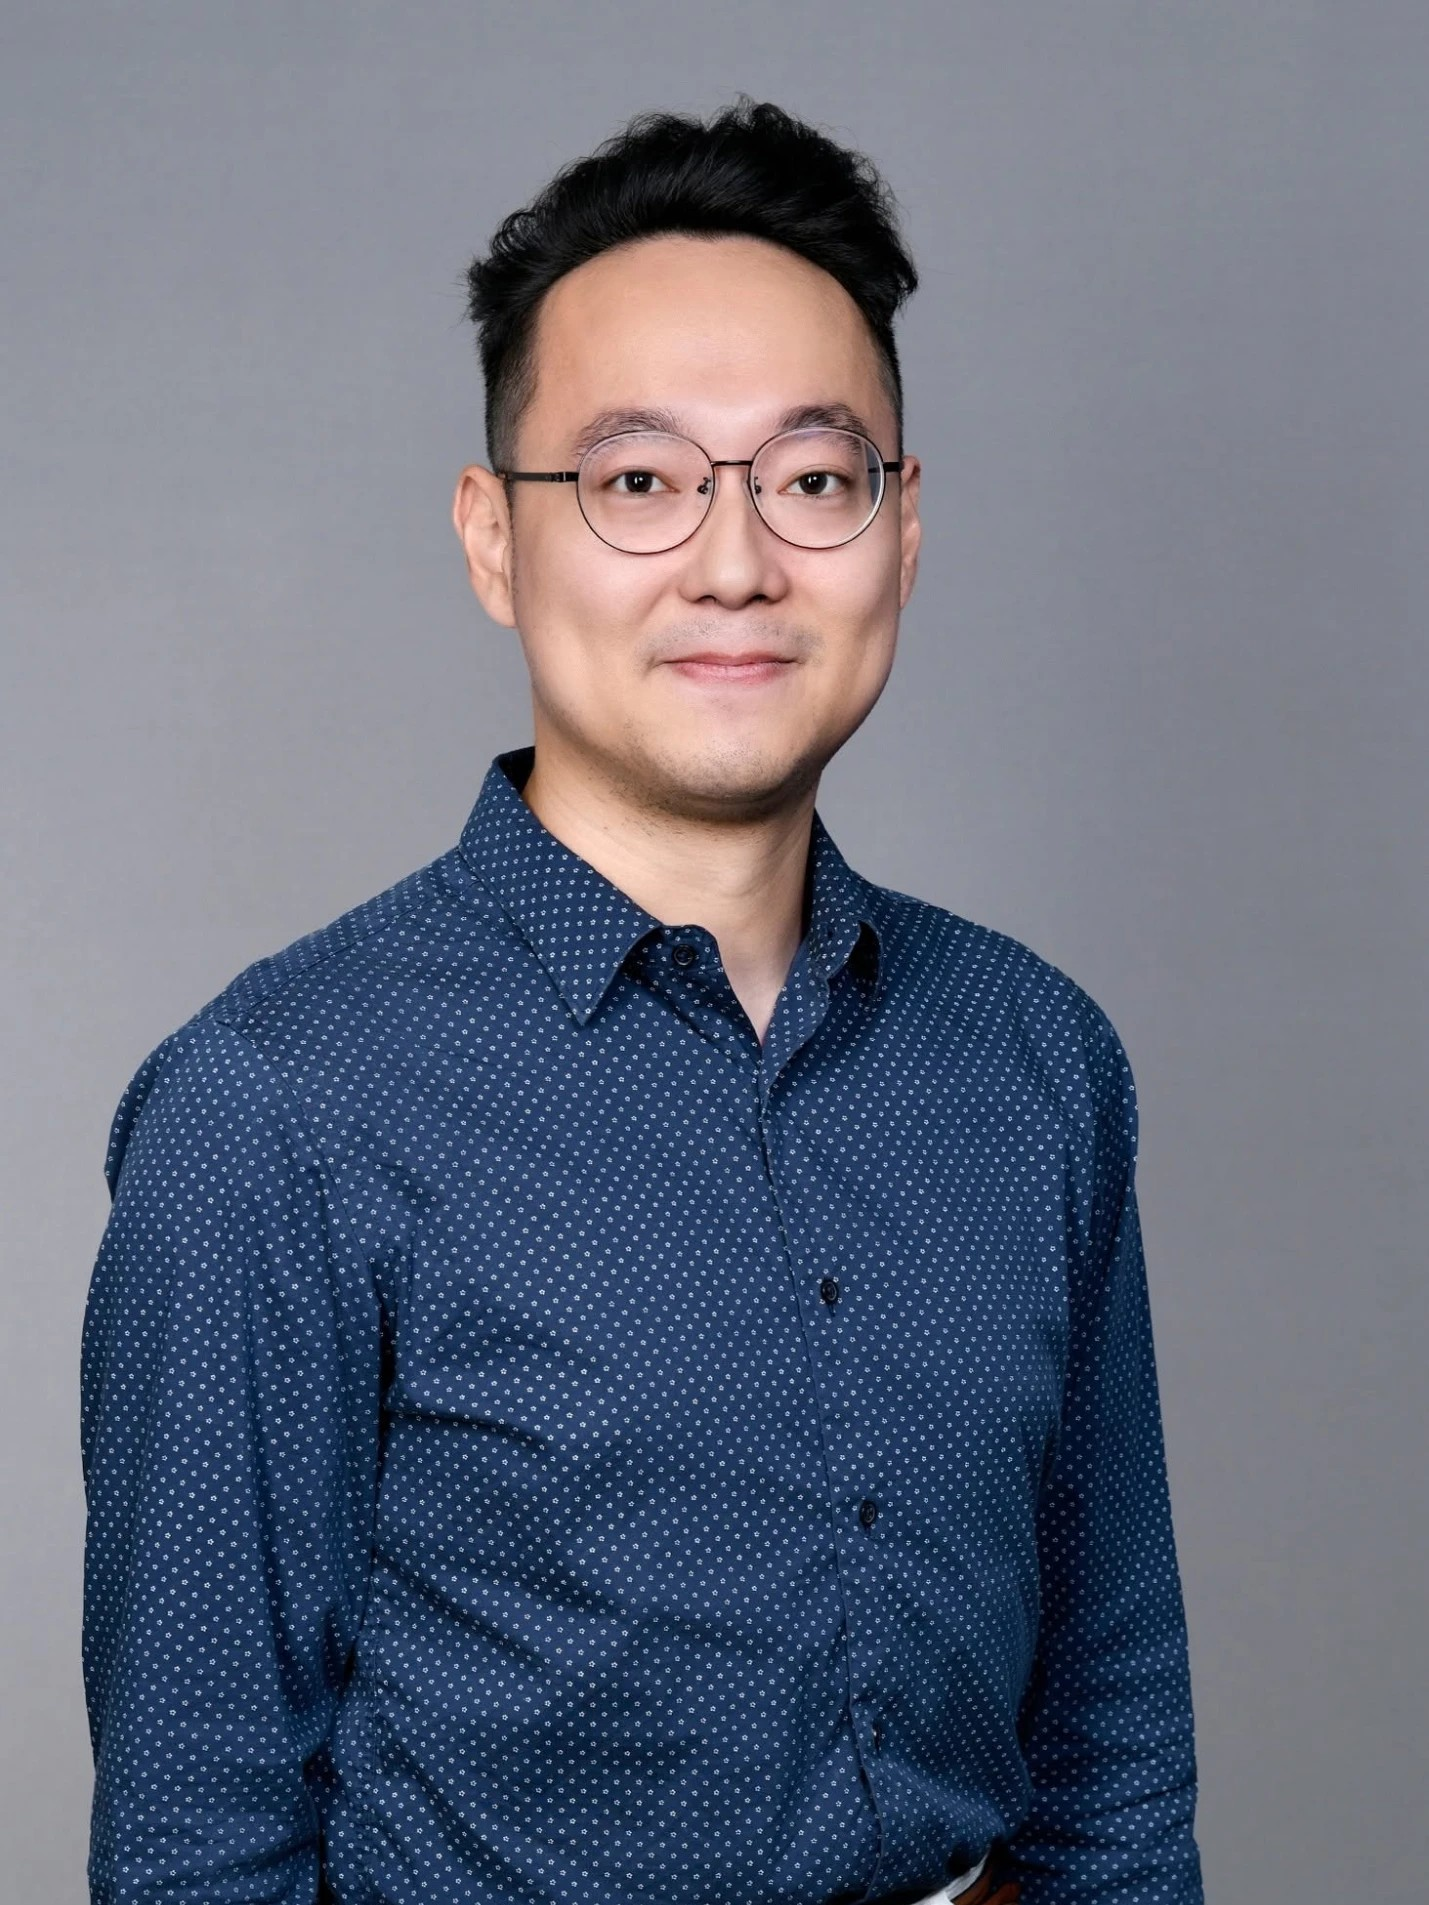
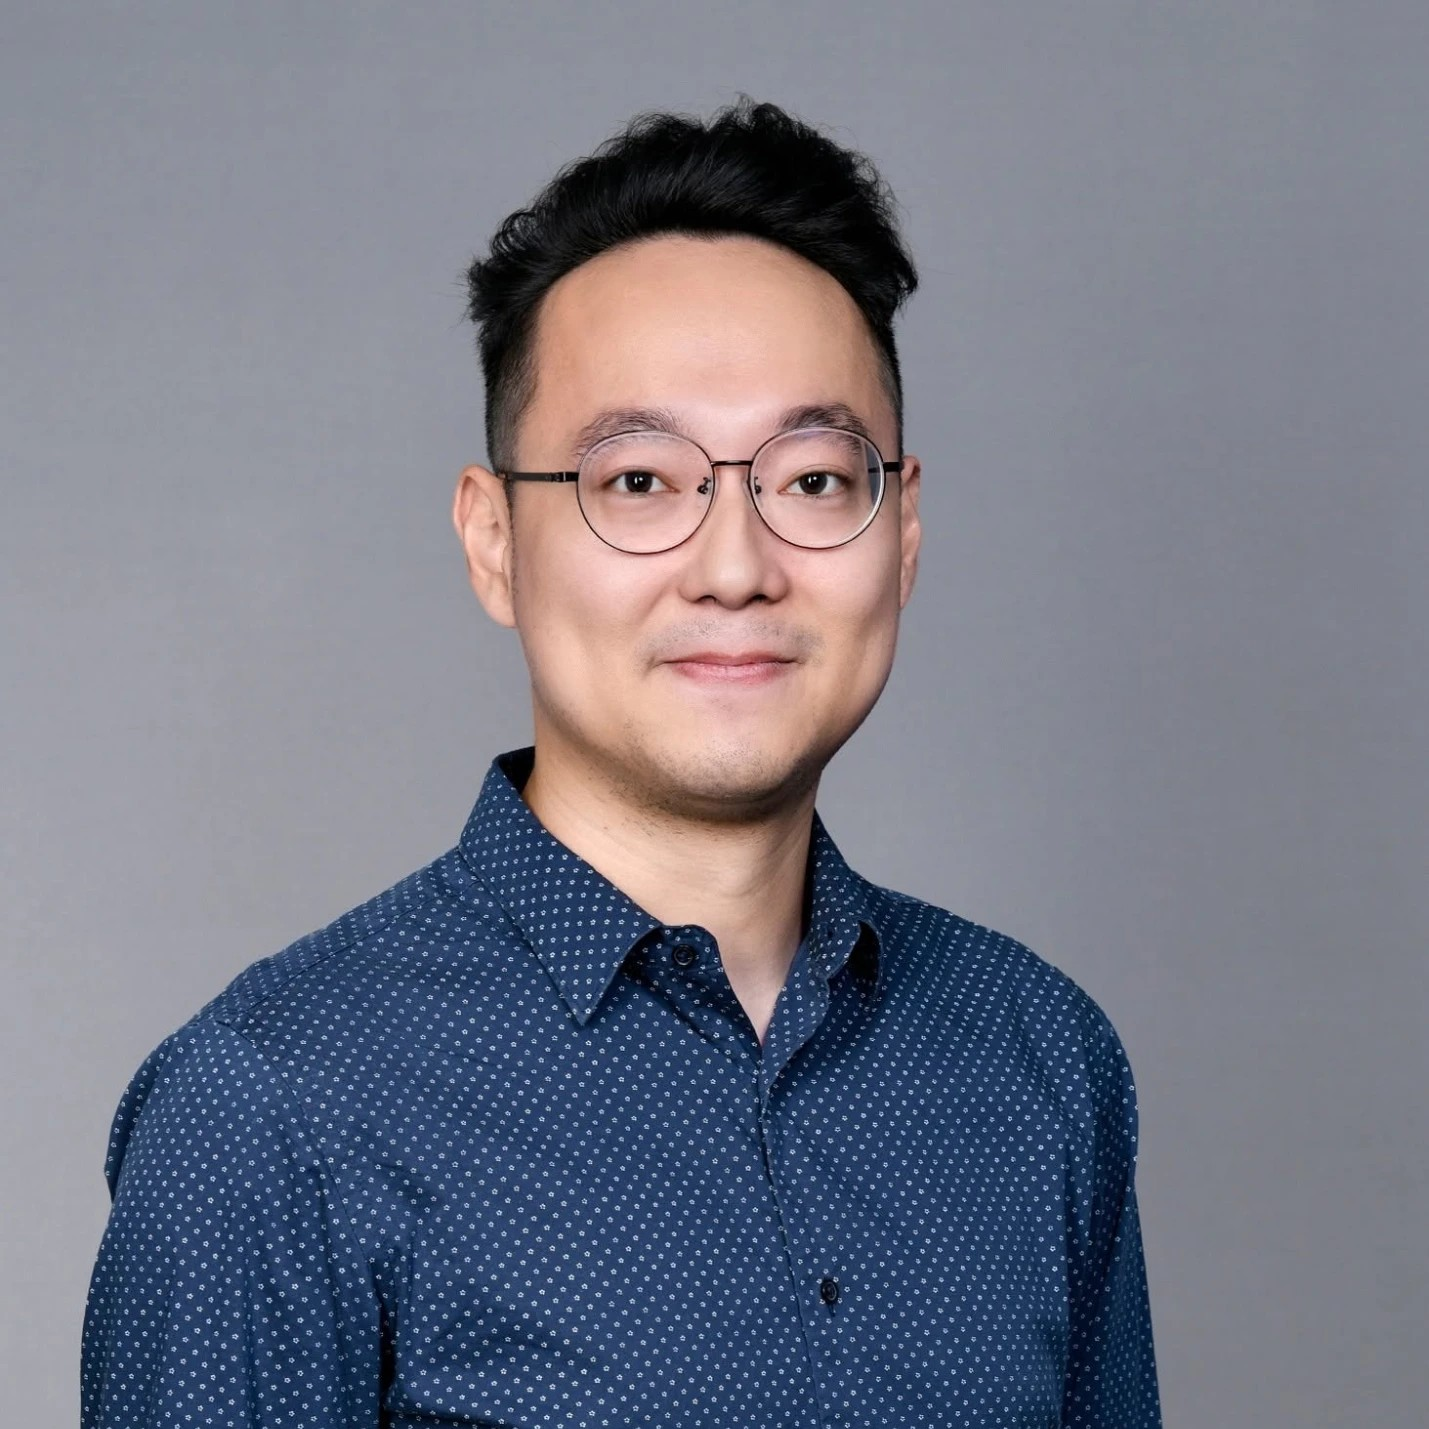
Re-crop profile photo to 1:1 square
Claude-Session: https://claude.ai/code/session_01UqoztTs8oVkxVbq6G5A3W1

diff --git a/index.html b/index.html
@@ -32,8 +32,8 @@
       flex-wrap: wrap;
     }
     .photo {
-      width: 180px;
-      height: 240px;
+      width: 190px;
+      height: 190px;
       object-fit: cover;
       border-radius: 4px;
       flex-shrink: 0;
